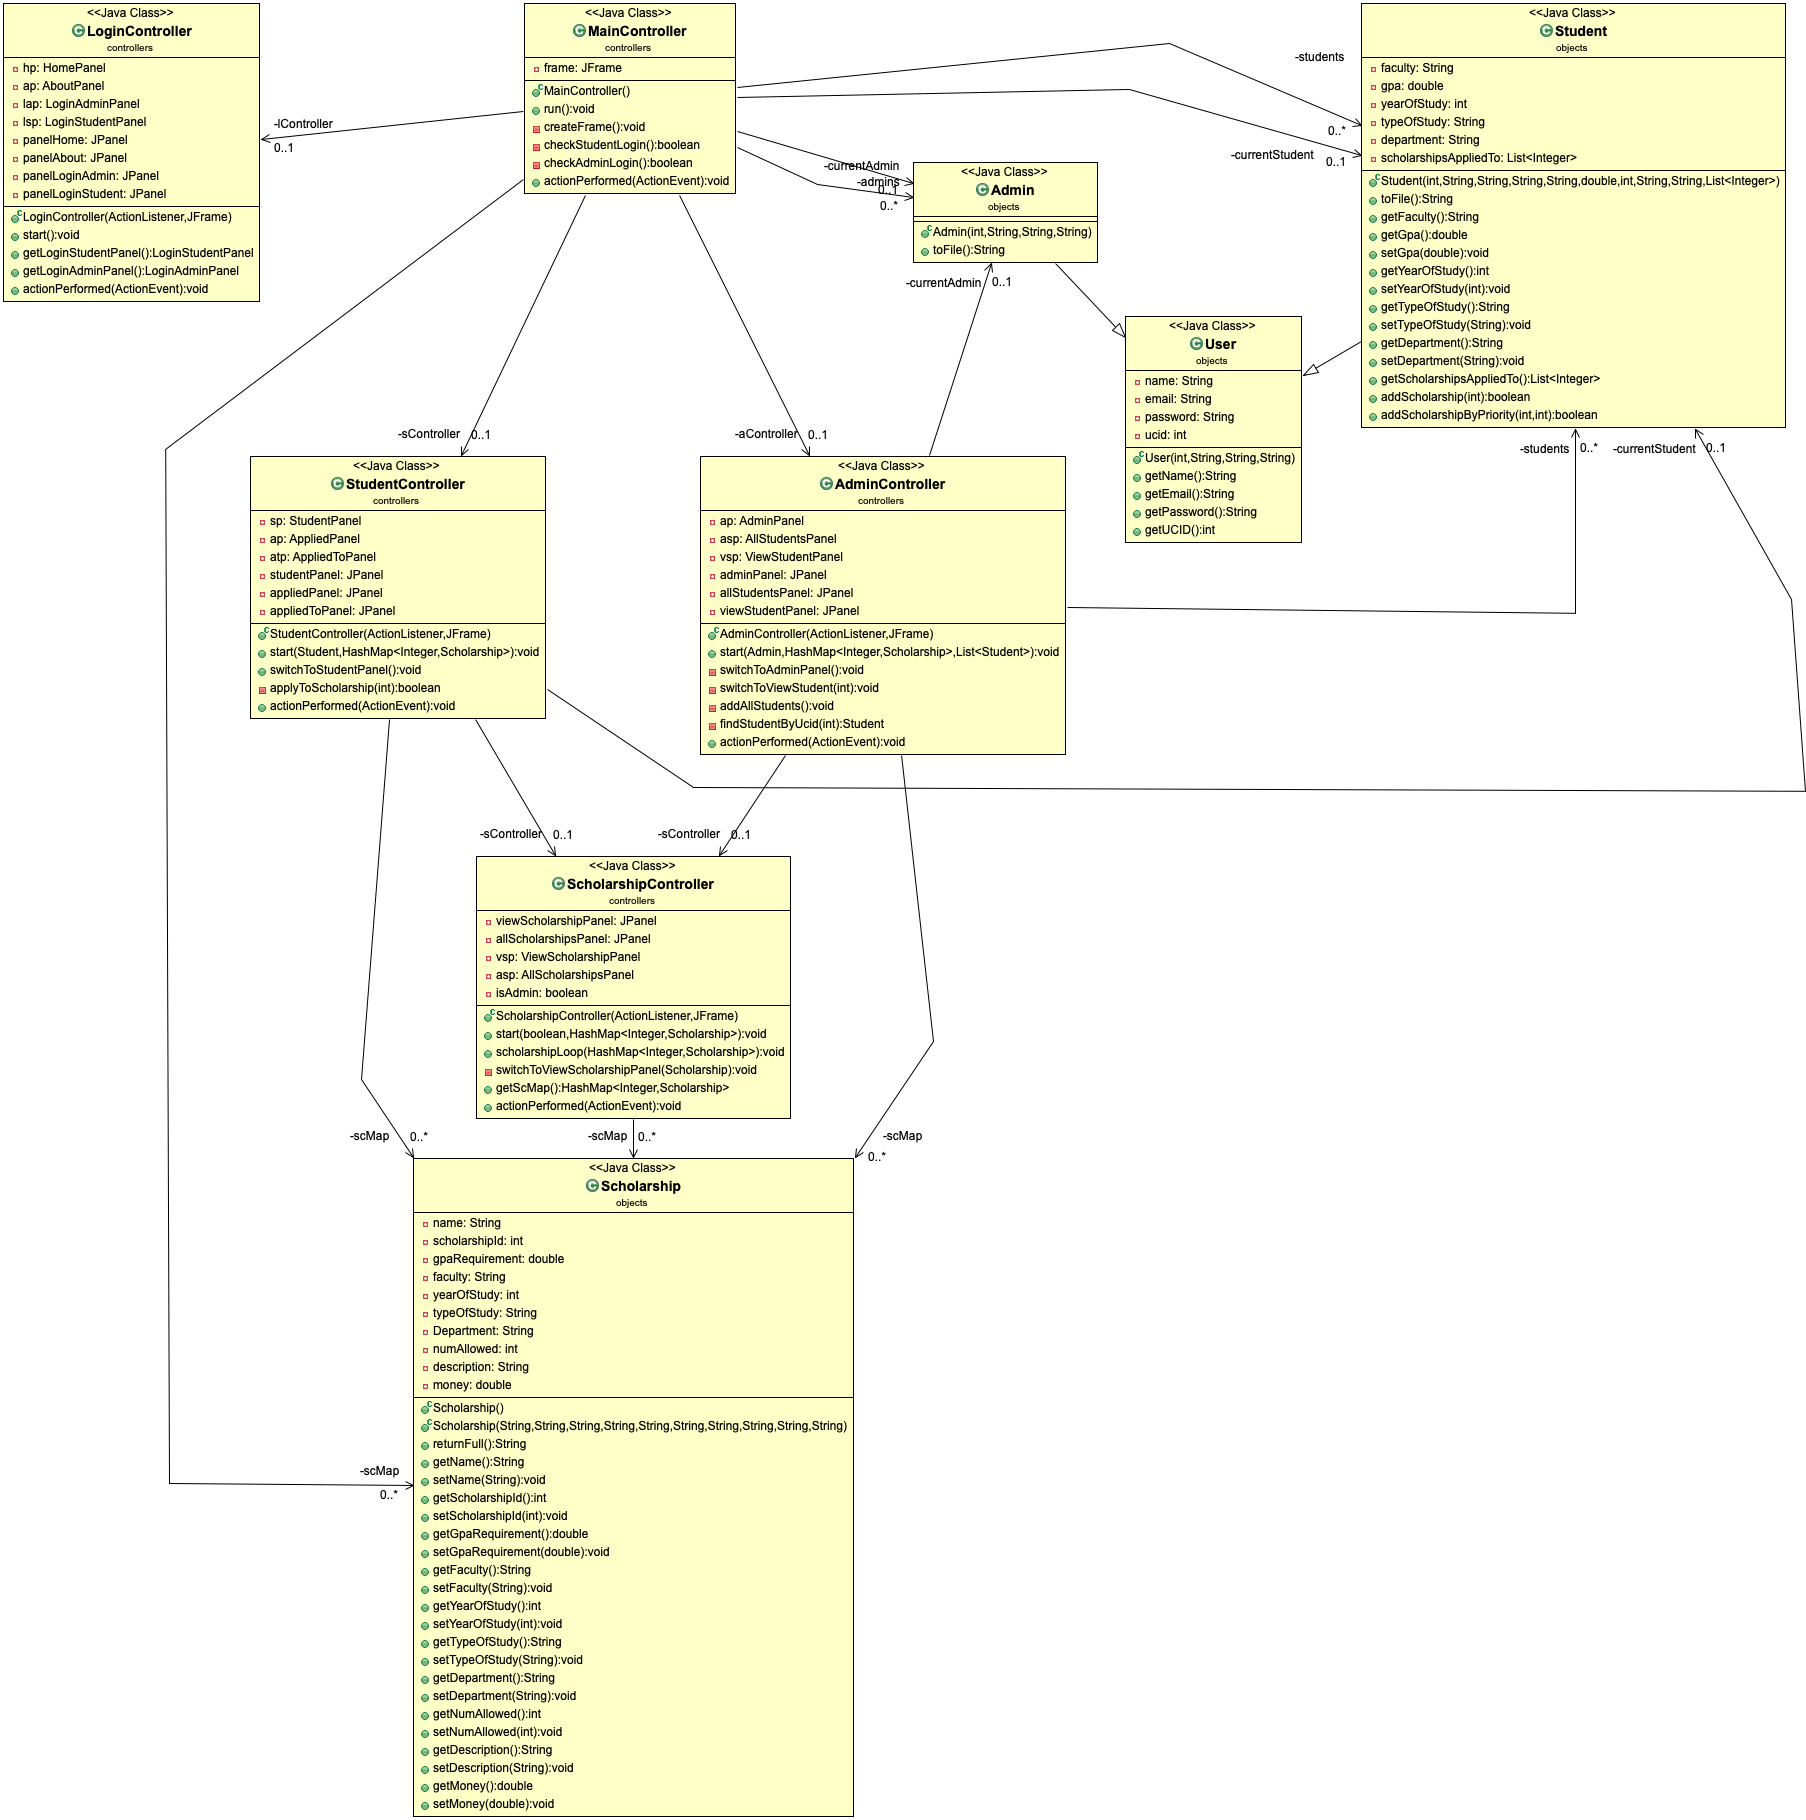
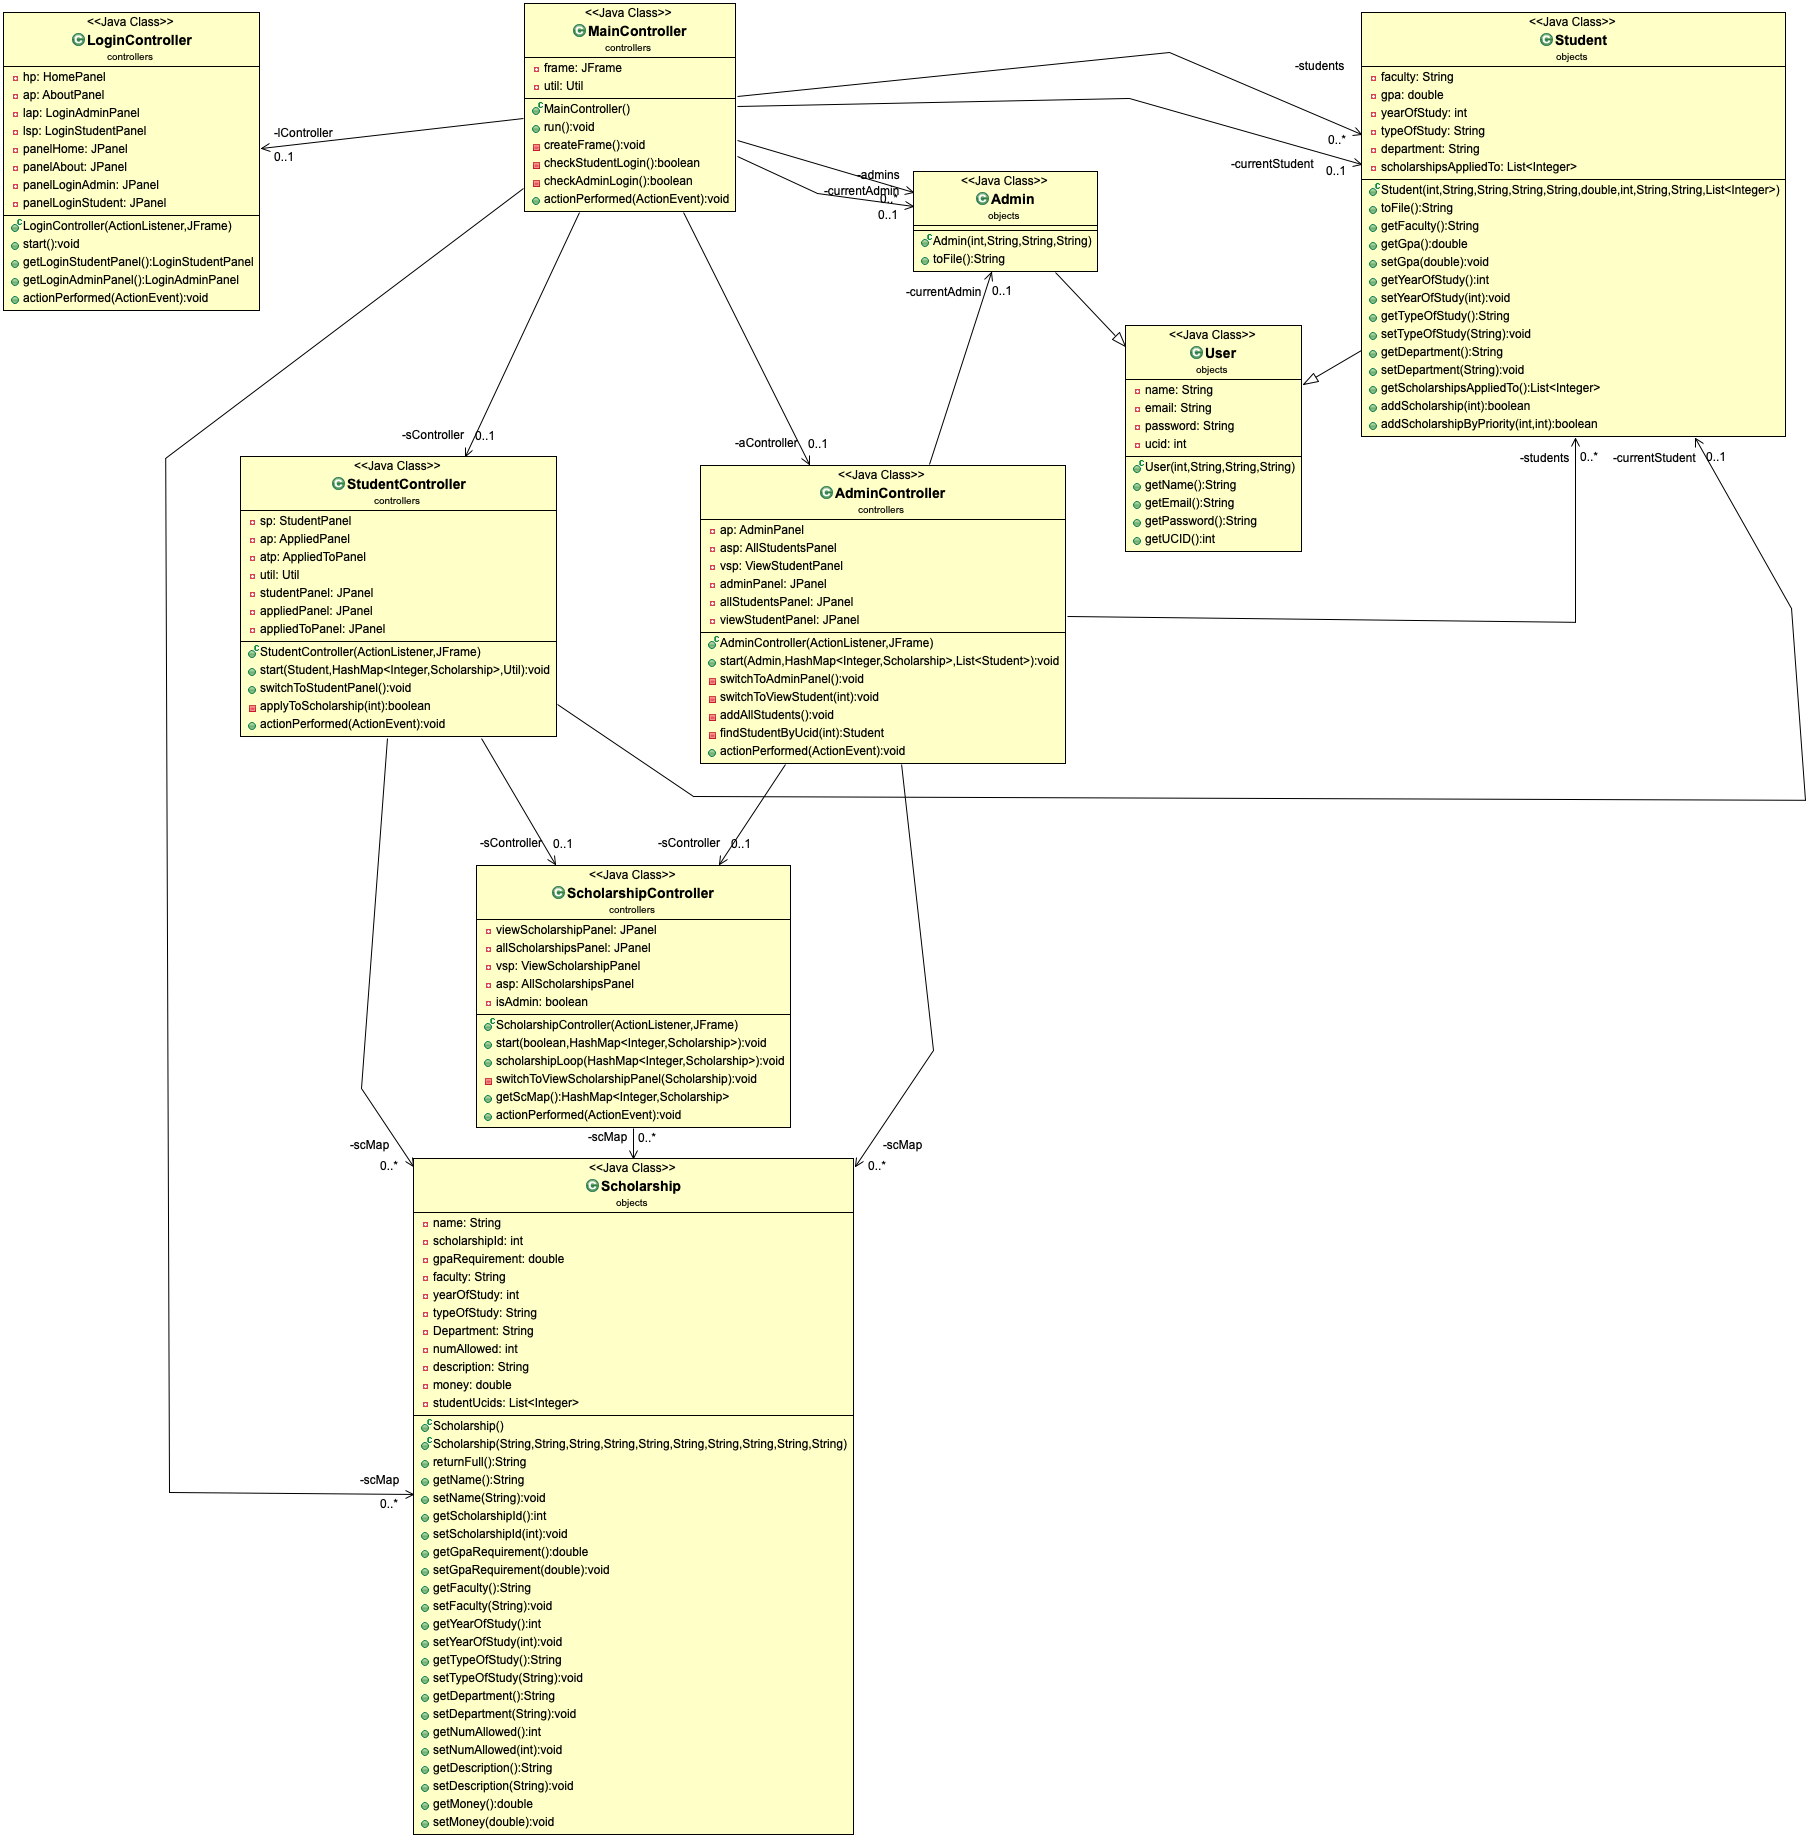
Added util file to save and write data

diff --git a/src/controllers/StudentController.java b/src/controllers/StudentController.java
@@ -11,6 +11,7 @@ import javax.swing.JPanel;
 import displayStudent.*;
 import myJStuff.MyController;
 import objects.*;
+import util.*;
 
 /**
  * Controller used to manage what the student can do when logged in
@@ -28,6 +29,7 @@ public class StudentController extends MyController {
 	private AppliedPanel ap;
 	private AppliedToPanel atp;
 	
+	private Util util;
 	
 	// The current user
 	private Student currentStudent;
@@ -47,6 +49,7 @@ public class StudentController extends MyController {
 	public StudentController(ActionListener globalListener,JFrame frame) {
 		super(globalListener, frame);
 		sController = new ScholarshipController(this,frame);
+
 	}
 	
 	/**
@@ -55,9 +58,10 @@ public class StudentController extends MyController {
 	 * @param currentUser - Student
 	 * @param scMap - HashMap 
 	 */
-	public void start(Student currentStudent, HashMap<Integer, Scholarship> scMap) {
+	public void start(Student currentStudent, HashMap<Integer, Scholarship> scMap, Util util) {
 		this.scMap = scMap;
 		this.currentStudent = currentStudent;
+		this.util = util;
 		sp = new StudentPanel(this, globalListener);
 		ap = new AppliedPanel(this);
 		atp = new AppliedToPanel(this);
@@ -78,7 +82,8 @@ public class StudentController extends MyController {
 	private boolean applyToScholarship(int scholarshipID) {
 		Scholarship s = scMap.get(scholarshipID);
 		if(currentStudent != null) {
-			if(currentStudent.addScholarship(scholarshipID)) {
+			if(currentStudent.addScholarship(scholarshipID)) { 
+				util.saveStudent(currentStudent);
 				System.out.println(s.getName()+" added to applied");
 				return true;
 			}else {

diff --git a/src/util/Util.java b/src/util/Util.java
@@ -1,0 +1,48 @@
+package util;
+
+import java.util.HashMap;
+import java.util.List;
+
+import objects.*;
+
+public class Util {
+	
+	private List<Student> students;
+	private List<Admin> admins;
+	private HashMap<Integer, Scholarship> scMap; 
+	
+	private final String studentFile = FileLocations.studentFile;
+	private final String adminFile = FileLocations.adminFiles;
+	private final String scholarshipFile = FileLocations.scholarshipFile;
+	
+	
+	public Util(List<Student> students, List<Admin> admins, HashMap<Integer, Scholarship> scMap) {
+		this.students = students;
+		this.admins = admins;
+		this.scMap = scMap;
+	}
+	
+	public void writeStudents(){
+		// write all of the students to the file
+	}
+	
+	public void saveStudent(Student student) {
+		// override the correct student in the list of students
+	}
+	
+	public void writeAdmins() {
+		
+	}
+	
+	public void saveAdmin(Admin a) {
+		
+	}
+	
+	public void writeScholarships() {
+		
+	}
+	
+	public void saveScholarship(Scholarship scholarship) {
+		
+	}
+}

diff --git a/src/controllers/MainController.java b/src/controllers/MainController.java
@@ -28,6 +28,8 @@ public class MainController implements ActionListener{
 	private Admin currentAdmin;
 	private Student currentStudent;
 	
+	private Util util;
+	
 	public MainController(){
 		createFrame();
 	}
@@ -43,6 +45,8 @@ public class MainController implements ActionListener{
 		scMap = ld.loadScholarships();
 		
 		lController.start();
+		
+		util = new Util(students,admins,scMap);
 	}
 	
 	private void createFrame(){
@@ -103,7 +107,7 @@ public class MainController implements ActionListener{
 		switch(name){
 		case"Login_LoginStudentPanel":
 			if(checkStudentLogin()) {
-				sController.start(currentStudent, scMap);
+				sController.start(currentStudent, scMap, util);
 			}
 			break;
 		case"Login_LoginAdminPanel":

diff --git a/src/util/LoadData.java b/src/util/LoadData.java
@@ -21,12 +21,12 @@ public class LoadData{
 	/**
 	 * Instance variables
 	 */
-	private List<Student> students;
+	protected List<Student> students;
 	private List<Admin> admins;
 	private HashMap<Integer, Scholarship> scMap; 
-	private final String studentFile = "src/data/students.txt";
-	private final String adminFile = "src/data/admins.txt";
-	private final String scholarshipFile ="src/data/scholarships.txt";
+	private final String studentFile = FileLocations.studentFile;
+	private final String adminFile = FileLocations.adminFiles;
+	private final String scholarshipFile = FileLocations.scholarshipFile;
 	/**
 	 * default constructor
 	 */

diff --git a/src/objects/Scholarship.java b/src/objects/Scholarship.java
@@ -1,5 +1,7 @@
 package objects;
 
+import java.util.List;
+
 /**
  * Scholarship class contains all attributes for scholarship
  * 
@@ -22,6 +24,8 @@ public class Scholarship {
 	private int numAllowed;
 	private String description;
 	private double money;
+	
+	private List<Integer> studentUcids;
 
 	/**
 	 * Default scholarship constructor

diff --git a/src/util/FileLocations.java b/src/util/FileLocations.java
@@ -1,0 +1,10 @@
+package util;
+
+public class FileLocations{
+	
+	
+	public static final String scholarshipFile ="src/data/scholarships.txt";
+	public static final String studentFile ="src/data/students.txt";
+	public static final String adminFiles ="src/data/admins.txt";
+
+}
